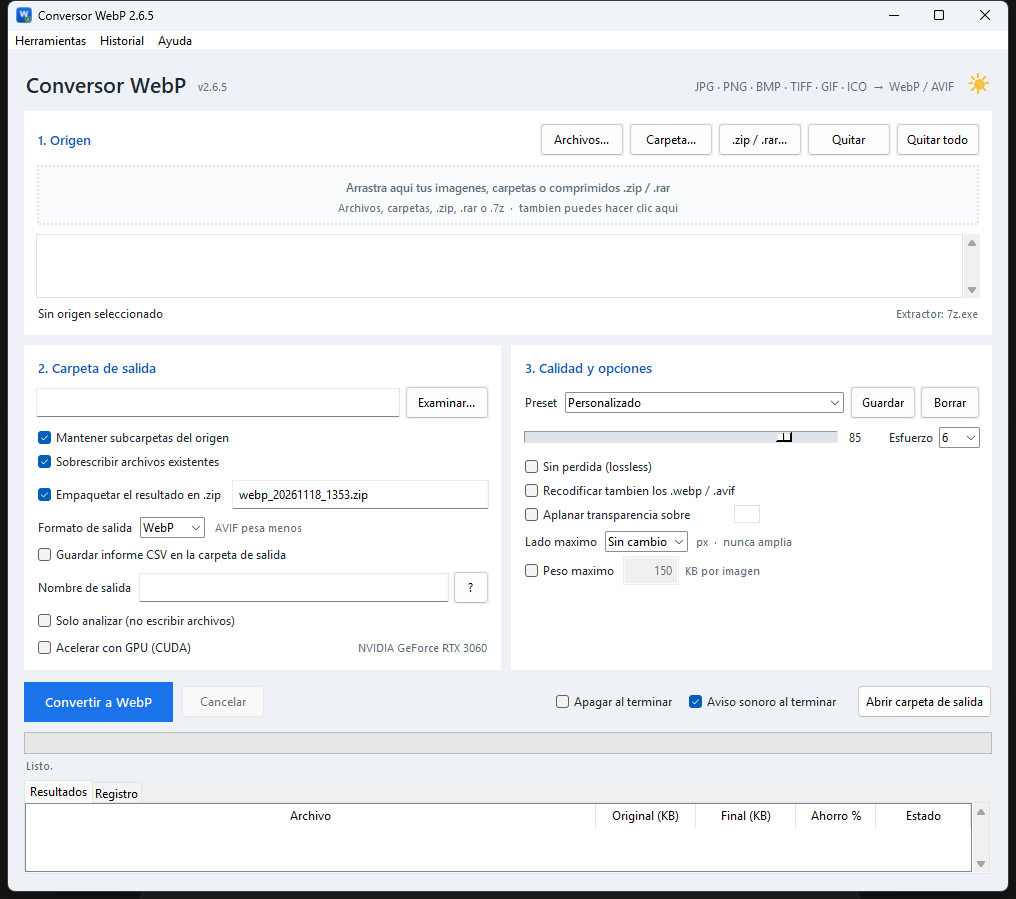
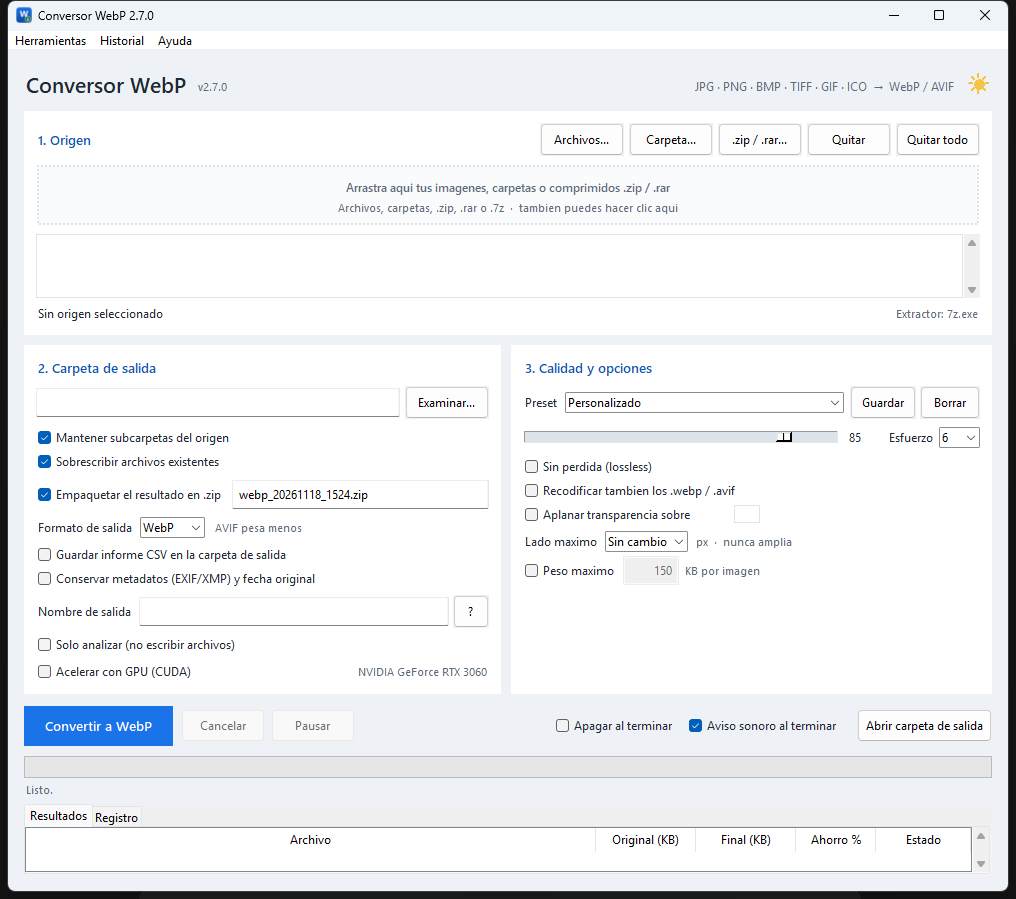
Version 2.7.0: cola, vista previa, animaciones, metadatos, CLI y robustez

diff --git a/MANUAL_DE_USO.html b/MANUAL_DE_USO.html
@@ -3,7 +3,7 @@
 <head>
 <meta charset="utf-8">
 <meta name="viewport" content="width=device-width, initial-scale=1">
-<title>Manual de uso · Conversor WebP 2.6.2</title>
+<title>Manual de uso · Conversor WebP 2.7.0</title>
 <style>
   :root{
     --azul:#1a73e8; --azul-osc:#1557b0; --texto:#1f2933; --gris:#5f6b7a;
@@ -67,7 +67,7 @@
 <div class="hoja">
 
 <header>
-  <h1>Conversor WebP 2.6.2</h1>
+  <h1>Conversor WebP 2.7.0</h1>
   <p class="sub">Manual de uso · Qué hace cada opción y cómo sacarle partido</p>
 </header>
 
@@ -93,9 +93,11 @@
 </div>
 
 <div class="nota">
-  <strong>Novedades de la versión 2.6.2:</strong> actualización automática desde la propia aplicación (descarga verificada con SHA-256, sustitución en el directorio actual y reinicio); edición C++ con paridad funcional, icono de aplicación, selector de color visible, ventana maximizable y correcciones de estabilidad; apagado opcional al terminar, tooltips explicativos, HEIC, carpeta vigilada, patrones de nombre, solo analizar, tabla de resultados, vista previa, menú contextual, instalador y portable, detección de GPU, presets de calidad, redimensionado, peso máximo por imagen,
-  historial de trabajos, selección múltiple, atajos de teclado, conversión en paralelo, informe CSV,
-  formato AVIF y acceso directo en <strong>Enviar a</strong> del Explorador.
+  <strong>Novedades de la versión 2.7.0:</strong> cola persistente con pausa, reanudación, reintento y reordenación; vista previa con calidad de prueba y peso estimado; WebP animado desde GIF/WebP; conservación opcional de metadatos EXIF/XMP y fecha original; CLI con salida JSON, modo silencioso, trabajos en paralelo y presets; actualizaciones con verificación Authenticode cuando el ejecutable esté firmado; configuración atómica en C++; aviso de espacio libre, tiempo restante e instancia única.
+  <br><br>
+  <strong>Novedades de la versión 2.6.2:</strong> actualización automática desde la propia aplicación,
+  edición C++ con paridad funcional, apagado opcional, tooltips, HEIC, carpeta vigilada, patrones,
+  solo analizar, tabla de resultados, vista previa, menú contextual, instalador y portable.
 </div>
 
 <h2 id="que-es">1. Qué es y qué hace</h2>
@@ -583,7 +585,7 @@ muestran un aviso en la barra de estado. <em>Ayuda → Buscar actualizaciones</e
 ofrece abrir la página de descarga.</p>
 
 <p class="pie">
-  Conversor WebP 2.6.2 · Programa local para Windows · Interfaz Tkinter, conversión con Pillow, arrastre con
+  Conversor WebP 2.7.0 · Programa local para Windows · Interfaz Tkinter, conversión con Pillow, arrastre con
   TkDND, extracción con 7-Zip/WinRAR.<br>
   Este manual se abre desde el programa en <strong>Ayuda → Manual de uso</strong> y también puede abrirse
   con doble clic en cualquier navegador.

diff --git a/cpp/MANUAL_DE_USO.html b/cpp/MANUAL_DE_USO.html
@@ -3,7 +3,7 @@
 <head>
 <meta charset="utf-8">
 <meta name="viewport" content="width=device-width, initial-scale=1">
-<title>Manual de uso · Conversor WebP 2.6.2</title>
+<title>Manual de uso · Conversor WebP 2.7.0</title>
 <style>
   :root{
     --azul:#1a73e8; --azul-osc:#1557b0; --texto:#1f2933; --gris:#5f6b7a;
@@ -67,7 +67,7 @@
 <div class="hoja">
 
 <header>
-  <h1>Conversor WebP 2.6.2</h1>
+  <h1>Conversor WebP 2.7.0</h1>
   <p class="sub">Manual de uso · Qué hace cada opción y cómo sacarle partido</p>
 </header>
 
@@ -93,6 +93,8 @@
 </div>
 
 <div class="nota">
+  <strong>Novedades de la versión 2.7.0:</strong> cola persistente con pausa y reintento; vista previa con calidad de prueba y peso estimado; WebP animado; conservación opcional de fecha original; CLI con JSON, modo silencioso, trabajos en paralelo y presets; configuración atómica, espacio libre, tiempo restante e instancia única.
+  <br><br>
   <strong>Novedades de la versión 2.6.2:</strong> actualización automática desde la aplicación: descarga el instalador o el portable según la instalación, verifica su SHA-256, lo aplica en el directorio actual y reinicia el programa; edición C++ nativa (Win32) con paridad funcional, icono de aplicación, selector de color visible, ventana maximizable, sin consola y correcciones de estabilidad; manual y «Acerca de» propios, apagado opcional al terminar, tooltips explicativos, HEIC, carpeta vigilada, patrones de nombre, solo analizar, tabla de resultados, vista previa, menú contextual, instalador y portable, presets de calidad, redimensionado, peso máximo por imagen,
   historial de trabajos, selección múltiple, atajos de teclado, conversión en paralelo, informe CSV,
   formato AVIF y acceso directo en <strong>Enviar a</strong> del Explorador.
@@ -563,7 +565,7 @@ muestran un aviso en la barra de estado. <em>Ayuda → Buscar actualizaciones</e
 ofrece abrir la página de descarga.</p>
 
 <p class="pie">
-  Conversor WebP 2.6.2 · Programa local para Windows · Interfaz Win32, conversión con WIC + libwebp/libavif,
+  Conversor WebP 2.7.0 · Programa local para Windows · Interfaz Win32, conversión con WIC + libwebp/libavif,
   arrastre nativo y extracción con 7-Zip/WinRAR.<br>
   Este manual se abre desde el programa en <strong>Ayuda → Manual de uso</strong> y también puede abrirse
   con doble clic en cualquier navegador.

diff --git a/cpp/src/main.cpp b/cpp/src/main.cpp
@@ -79,7 +79,7 @@ using Microsoft::WRL::ComPtr;
 namespace fs = std::filesystem;
 
 static const wchar_t* APP_NAME = L"Conversor WebP";
-static const wchar_t* APP_VERSION = L"2.6.5";
+static const wchar_t* APP_VERSION = L"2.7.0";
 
 // ---------------------------------------------------------------------------
 //  Utilidades generales
@@ -1392,7 +1392,7 @@ struct Options {
     bool beep = true;
     bool csv = false;
     std::wstring salida;
-    std::wstring zip_nombre = L"imagenes_2.6.5-cpp.zip";
+    std::wstring zip_nombre = L"imagenes_2.7.0-cpp.zip";
     std::wstring patron;
     std::wstring formato = L"WEBP";
     bool dry_run = false;
@@ -1875,6 +1875,7 @@ static std::thread g_hilo;
 static std::atomic<bool> g_corriendo{false};
 static std::atomic<bool> g_cancelar{false};
 static std::atomic<bool> g_pausa{false};
+static ULONGLONG g_inicio_trabajo = 0;
 static std::mutex g_mutex_eventos;
 static std::deque<Evento> g_eventos;
 static std::atomic<bool> g_modo_cli{false};
@@ -5746,7 +5747,7 @@ static LRESULT CALLBACK WndProc(HWND hwnd, UINT msg, WPARAM wp, LPARAM lp) {
 
             // Cabecera
             etiqueta(L"Conversor WebP", 16, 17, 300, 30, 1400, g_font_title);
-            etiqueta(L"v2.6.5", 200, 29, 120, 18, 1401, g_font_muted);
+            etiqueta(L"v2.7.0", 200, 29, 120, 18, 1401, g_font_muted);
             etiqueta(L"JPG · PNG · BMP · TIFF · GIF · ICO  →  WebP / AVIF", 560, 23, 390, 20,
                      1402, g_font_muted, SS_RIGHT);
             boton(L"", 958, 20, 26, 26, ID_TEMA, BS_OWNERDRAW);
@@ -6354,6 +6355,17 @@ static LRESULT CALLBACK WndProc(HWND hwnd, UINT msg, WPARAM wp, LPARAM lp) {
                         GetTempPathW(MAX_PATH, temp);
                         g_opt.salida = (fs::path(temp) / L"conversor_webp_analisis").wstring();
                     }
+                    if (!g_opt.dry_run) {
+                        ULARGE_INTEGER libre{};
+                        if (GetDiskFreeSpaceExW(g_opt.salida.c_str(), &libre, nullptr, nullptr) &&
+                            libre.QuadPart < 100ull * 1024 * 1024) {
+                            if (MessageBoxW(hwnd,
+                                            L"Quedan menos de 100 MB libres en la carpeta de salida.\n\n"
+                                            L"¿Continuar?",
+                                            APP_NAME, MB_ICONWARNING | MB_YESNO) != IDYES)
+                                return 0;
+                        }
+                    }
 
                     guardar_config();
                     guardar_cola();
@@ -6362,6 +6374,7 @@ static LRESULT CALLBACK WndProc(HWND hwnd, UINT msg, WPARAM wp, LPARAM lp) {
                     EnableWindow(g_btn_pausa, TRUE);
                     g_cancelar = false;
                     g_pausa = false;
+                    g_inicio_trabajo = GetTickCount64();
                     SetWindowTextW(g_btn_pausa, L"Pausar");
                     g_corriendo = true;
                     {
@@ -6682,9 +6695,24 @@ static LRESULT CALLBACK WndProc(HWND hwnd, UINT msg, WPARAM wp, LPARAM lp) {
                         SendMessageW(g_progress, PBM_SETRANGE, 0, MAKELPARAM(0, std::max(1, e.b)));
                         SendMessageW(g_progress, PBM_SETPOS, e.a, 0);
                         if (!g_pausa) {
-                            wchar_t b[96];
-                            swprintf_s(b, g_opt.dry_run ? L"Analizando %d/%d" : L"Convirtiendo %d/%d",
-                                       e.a, e.b);
+                            wchar_t b[128];
+                            ULONGLONG transcurrido = g_inicio_trabajo
+                                                         ? GetTickCount64() - g_inicio_trabajo
+                                                         : 0;
+                            ULONGLONG restante = (e.a > 0 && e.b > e.a)
+                                                     ? transcurrido / (ULONGLONG)e.a *
+                                                           (ULONGLONG)(e.b - e.a) / 1000
+                                                     : 0;
+                            if (restante >= 60)
+                                swprintf_s(b, g_opt.dry_run
+                                                   ? L"Analizando %d/%d  ·  quedan ~%llu min"
+                                                   : L"Convirtiendo %d/%d  ·  quedan ~%llu min",
+                                           e.a, e.b, restante / 60);
+                            else
+                                swprintf_s(b, g_opt.dry_run
+                                                   ? L"Analizando %d/%d  ·  quedan ~%llu s"
+                                                   : L"Convirtiendo %d/%d  ·  quedan ~%llu s",
+                                           e.a, e.b, restante);
                             SetWindowTextW(g_status, b);
                         }
                     } else if (e.tipo == Evento::FILA) {
@@ -7062,6 +7090,14 @@ int wmain(int argc, wchar_t** argv) {
         return rc;
     }
 
+    HANDLE instancia = CreateMutexW(nullptr, FALSE, L"Local\\ConversorWebPC_GUI");
+    (void)instancia;
+    if (GetLastError() == ERROR_ALREADY_EXISTS) {
+        MessageBoxW(nullptr, L"Ya hay una instancia de Conversor WebP abierta.",
+                    L"Conversor WebP", MB_ICONINFORMATION);
+        return 0;
+    }
+
     cargar_config();
     aplicar_modo_global_cpp(g_oscuro);
     WNDCLASSEXW wc{};
@@ -7087,7 +7123,7 @@ int wmain(int argc, wchar_t** argv) {
     wc.hIconSm = icono_pequeno;
     RegisterClassExW(&wc);
 
-    g_hwnd = CreateWindowExW(0, wc.lpszClassName, L"Conversor WebP 2.6.5",
+    g_hwnd = CreateWindowExW(0, wc.lpszClassName, L"Conversor WebP 2.7.0",
                              WS_OVERLAPPEDWINDOW,
                              CW_USEDEFAULT, CW_USEDEFAULT, 1016, 900, nullptr, nullptr, inst, nullptr);
     if (!g_hwnd) return 1;

diff --git a/conversor_webp.py b/conversor_webp.py
@@ -77,7 +77,7 @@ except Exception:  # pragma: no cover - la app sigue funcionando sin arrastrar
 
 
 APP_NAME = "Conversor WebP"
-APP_VERSION = "2.6.5"
+APP_VERSION = "2.7.0"
 
 try:  # soporte HEIC/HEIF (iPhone) si pillow-heif esta instalado
     import pillow_heif
@@ -2073,6 +2073,7 @@ class App(BaseTk):  # type: ignore[misc,valid-type]
         self._fallidos_ultimos: list[Path] = []
         self._sources_iniciales = bool(sources_iniciales)
         self._job_actual: Job | None = None
+        self._inicio_trabajo = 0.0
 
         self._dpi_setup()
         self._build_style()
@@ -4555,6 +4556,16 @@ class App(BaseTk):  # type: ignore[misc,valid-type]
                 messagebox.showerror(APP_NAME, f"Color de fondo no valido:\n{e}")
                 return
 
+        try:
+            libre = shutil.disk_usage(salida).free
+            if libre < 100 * 1024 * 1024 and not messagebox.askyesno(
+                APP_NAME,
+                "Quedan menos de 100 MB libres en la carpeta de salida.\n\n¿Continuar?",
+            ):
+                return
+        except OSError:
+            pass
+
         job = Job(
             sources=list(self.sources),
             output_dir=salida,
@@ -4604,6 +4615,7 @@ class App(BaseTk):  # type: ignore[misc,valid-type]
         self.lbl_status.configure(text="Preparando...")
         self.cancel_event.clear()
         self.pause_event.clear()
+        self._inicio_trabajo = time.time()
         self.btn_pause.configure(text="Pausar", state="normal")
 
         self.worker = threading.Thread(
@@ -4716,7 +4728,17 @@ class App(BaseTk):  # type: ignore[misc,valid-type]
                     hechas, total = dato
                     self.progress.configure(value=hechas, maximum=max(1, total))
                     pct = (hechas / total * 100) if total else 0
-                    self.lbl_status.configure(text=f"Convirtiendo {hechas}/{total}  ({pct:.0f}%)")
+                    restante = ""
+                    if hechas and self._inicio_trabajo:
+                        transcurrido = max(0.0, time.time() - self._inicio_trabajo)
+                        segundos = transcurrido / hechas * max(0, total - hechas)
+                        if segundos >= 60:
+                            restante = f"  ·  quedan ~{segundos / 60:.0f} min"
+                        elif segundos >= 1:
+                            restante = f"  ·  quedan ~{segundos:.0f} s"
+                    self.lbl_status.configure(
+                        text=f"Convirtiendo {hechas}/{total}  ({pct:.0f}%){restante}"
+                    )
                 elif tipo == "status":
                     self.lbl_status.configure(text=dato)
                 elif tipo == "log":
@@ -5367,6 +5389,27 @@ def write_diag(destino: str) -> int:
     return 0
 
 
+_MUTEX_GUI = None
+
+
+def _instancia_unica() -> bool:
+    """Evita dos instancias de la GUI escribiendo en la misma salida."""
+    global _MUTEX_GUI
+    if os.name != "nt":
+        return True
+    kernel32 = ctypes.windll.kernel32
+    _MUTEX_GUI = kernel32.CreateMutexW(None, False, "Local\\ConversorWebP_GUI")
+    if kernel32.GetLastError() == 183:  # ERROR_ALREADY_EXISTS
+        ctypes.windll.user32.MessageBoxW(
+            0,
+            "Ya hay una instancia de Conversor WebP abierta.",
+            APP_NAME,
+            0x00000040,  # MB_ICONINFORMATION
+        )
+        return False
+    return True
+
+
 def main() -> None:
     args = sys.argv[1:]
     if len(args) >= 2 and args[0] == "--diag":
@@ -5375,9 +5418,13 @@ def main() -> None:
         rutas = [Path(a) for a in args]
         if all(r.exists() for r in rutas):
             # Venimos de "Enviar a" / "Abrir con": abrimos la GUI ya cargada
+            if not _instancia_unica():
+                return
             App(sources_iniciales=rutas).mainloop()
             return
         sys.exit(run_cli(args))
+    if not _instancia_unica():
+        return
     App().mainloop()
 
 

diff --git a/README.md b/README.md
@@ -10,7 +10,7 @@
 </p>
 
 <p align="center">
-  <img alt="Versión" src="https://img.shields.io/badge/version-2.6.5-1a73e8">
+  <img alt="Versión" src="https://img.shields.io/badge/version-2.7.0-1a73e8">
   <img alt="Windows" src="https://img.shields.io/badge/Windows-10%20%7C%2011-0078D6">
   <img alt="Python" src="https://img.shields.io/badge/Python-3.12-3776AB">
   <img alt="Pillow" src="https://img.shields.io/badge/Pillow-13-11557C">
@@ -514,7 +514,7 @@ nombre del ZIP. Para volver a la configuración de fábrica, cierra el programa 
 | Orientación EXIF | Se aplica; las fotos verticales no salen giradas. |
 | Transparencia | Se conserva (PNG, GIF, WebP, AVIF), salvo que se aplique «aplanar». |
 | Perfil ICC | Se mantiene si la imagen lo lleva. |
-| GIF animados | Se convierte el **primer fotograma**; el registro lo avisa. |
+| GIF animados | Se convierten a **WebP animado**; AVIF usa el primer fotograma. |
 | Metadatos EXIF/GPS | No se copian (archivos más ligeros y sin datos de ubicación). |
 | Archivos originales | Nunca se modifican ni se borran. |
 
@@ -522,7 +522,7 @@ nombre del ZIP. Para volver a la configuración de fábrica, cierra el programa 
 
 ## Limitaciones conocidas
 
-- **GIF animados**: se usa el primer fotograma; no se genera WebP/AVIF animado.
+- **GIF animados**: se genera WebP animado; en AVIF se usa el primer fotograma.
 - **JPEG en CMYK**: se convierte a RGB de forma estándar; en imágenes de imprenta con perfil CMYK los
   colores pueden variar ligeramente.
 - **RAR/7Z**: requieren 7-Zip o WinRAR instalados.
@@ -608,6 +608,7 @@ ConversorWebP/
 
 Consulta [CHANGELOG.md](CHANGELOG.md). Resumen:
 
+- **2.7.0** — cola persistente, vista previa interactiva, WebP animado, metadatos, CLI ampliado y mejoras de robustez.
 - **2.6.5** — correcciones de robustez en Python y C++, CSV, cierre seguro, vista previa y CLI.
 - **2.6.4** — corrige el solape del selector «Lado máximo» en la edición C++.
 - **2.6.3** — modo oscuro conmutable en las dos ediciones, con icono sol/luna y preferencia guardada.

diff --git a/CHANGELOG.md b/CHANGELOG.md
@@ -6,6 +6,27 @@ Todos los cambios relevantes del proyecto. Formato basado en
 
 ---
 
+## [2.7.0] — 2026-11-18
+
+### Añadido
+
+- **Cola persistente** con pausa, reanudación, reintento de fallidos y reordenación de orígenes.
+- **Vista previa interactiva** con calidad de prueba y estimación de peso.
+- **WebP animado** desde GIF/WebP en Python y C++.
+- **Metadatos EXIF/XMP y fecha original** opcionales en Python; fecha original en C++.
+- **CLI** con `--json`, `--quiet`, `--jobs`, `--preset` y `--keep-metadata`.
+- Verificación Authenticode de las actualizaciones y script de firma para cuando exista certificado.
+- Configuración INI atómica en C++.
+- Aviso de espacio libre, tiempo restante estimado e instancia única.
+
+### Pendiente para próximas versiones
+
+- Certificado Authenticode real: el pipeline está listo, pero los binarios publicados siguen sin firmar.
+- Paridad completa de DPI, formatos de imagen y menú contextual moderno de Windows 11.
+- Traducción completa al inglés.
+
+---
+
 ## [2.6.5] — 2026-11-18
 
 ### Corregido
@@ -275,6 +296,7 @@ Todos los cambios relevantes del proyecto. Formato basado en
 - Conservación de transparencia, perfil ICC y orientación EXIF.
 - Modo consola básico.
 
+[2.7.0]: #270--2026-11-18
 [2.6.5]: #265--2026-11-18
 [2.6.4]: #264--2026-11-18
 [2.6.3]: #263--2026-11-18
